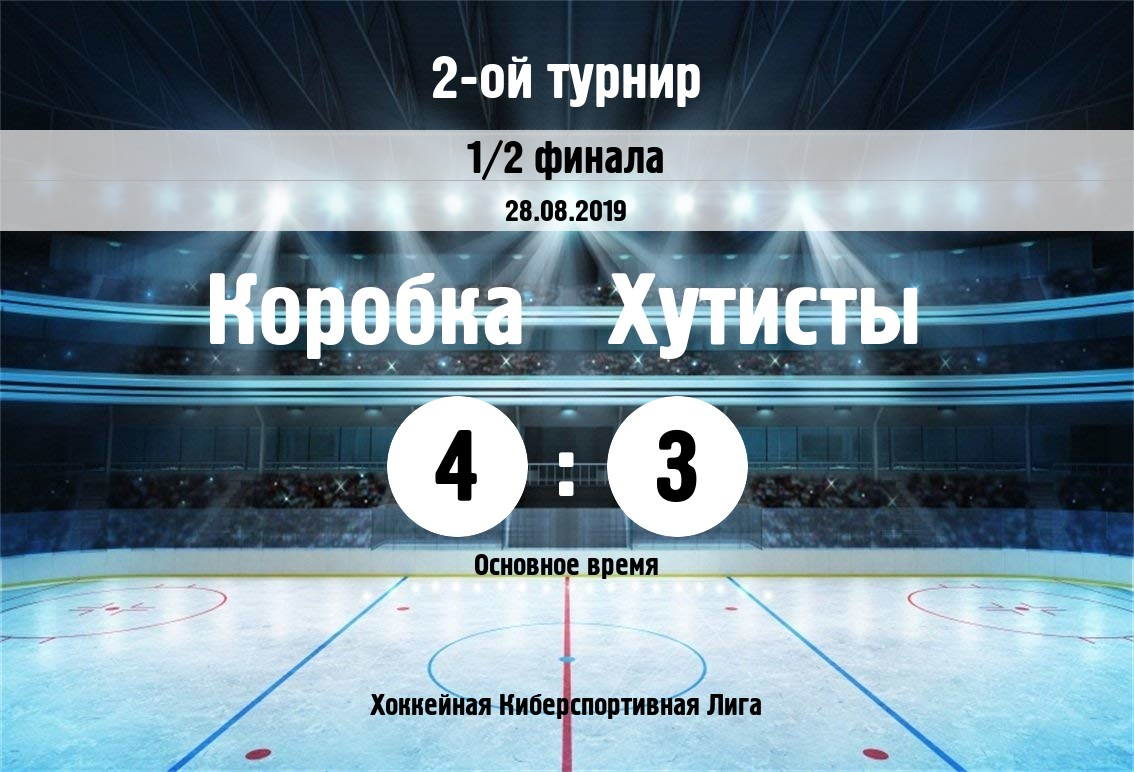
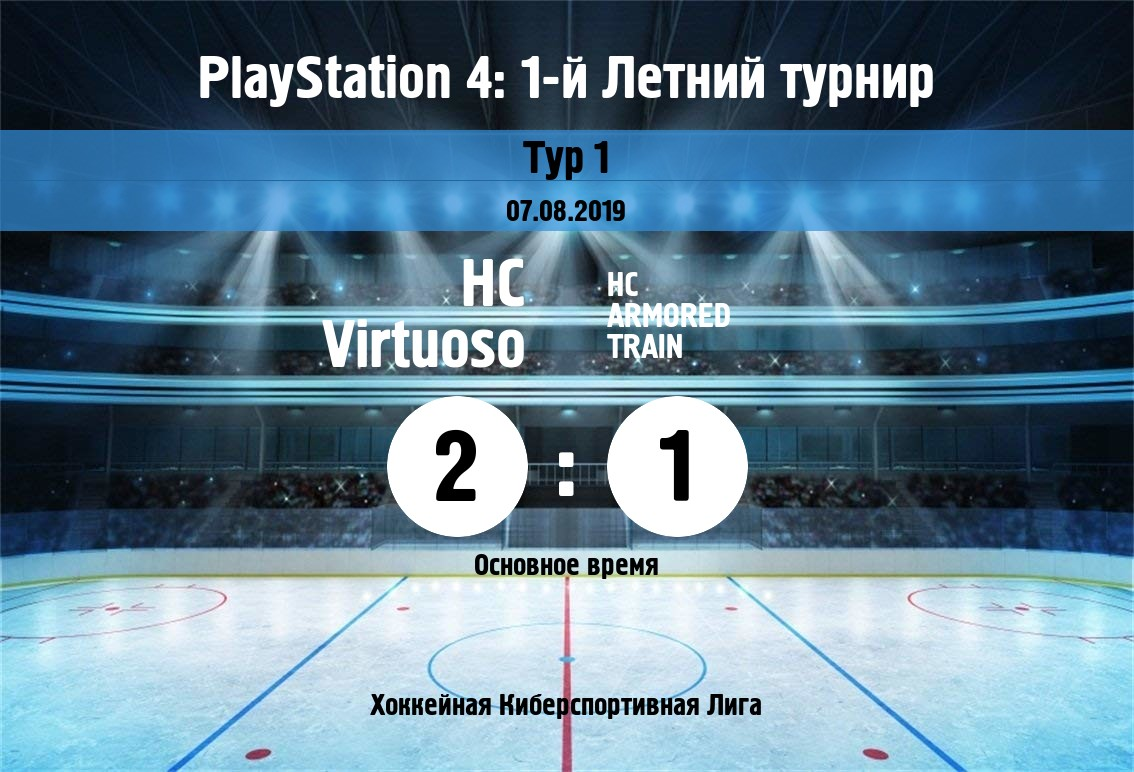
tournaments-12 Post game results to VK

diff --git a/app/Utils/ScoreImage.php b/app/Utils/ScoreImage.php
@@ -95,7 +95,7 @@ class ScoreImage
     private function _makeTournamentTitle()
     {
         $this->_img->text(
-            $this->_game->tournament->title,
+            $this->_game->tournament->platform->name . ': ' . $this->_game->tournament->title,
             $this->_img->width() / 2,
             self::PADDING * 2,
             function ($font) {
@@ -113,13 +113,24 @@ class ScoreImage
      */
     private function _makeHeader()
     {
+        switch ($this->_game->tournament->platform_id) {
+            case 'xboxone':
+                $color = [56, 193, 114, 0.7];
+                break;
+            case 'playstation4':
+                $color = [52, 144, 220, 0.7];
+                break;
+            default:
+                $color = [255, 255, 255, 0.7];
+        }
+
         $this->_img->line(
             0,
             60 + self::NO_STARS_OFFSET,
             $this->_img->width(),
             60 + self::NO_STARS_OFFSET,
-            function ($draw) {
-                $draw->color([255, 255, 255, 0.7]);
+            function ($draw) use ($color) {
+                $draw->color($color);
                 $draw->width(100);
             }
         );

diff --git a/app/Console/Commands/ImageGenerator.php b/app/Console/Commands/ImageGenerator.php
@@ -50,10 +50,10 @@ class ImageGenerator extends Command
      */
     public function handle()
     {
-        //$game = GroupGameRegular::find(446);
+        $game = GroupGameRegular::find(640);
         //$game = GroupGamePlayoff::find(78);
         //$game = PersonalGameRegular::find(350);
-        $game = PersonalGamePlayoff::find(75);
+        //$game = PersonalGamePlayoff::find(75);
         if (is_null($game->tournament->vk_group_id)) {
             $this->info('Tournament without group');
         }
